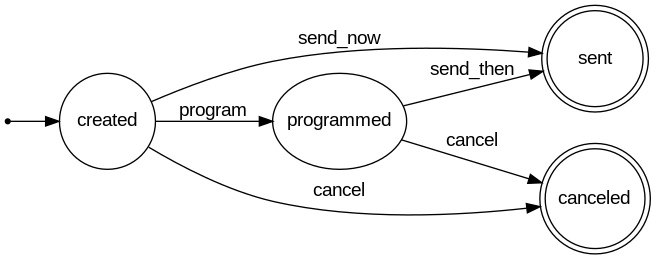
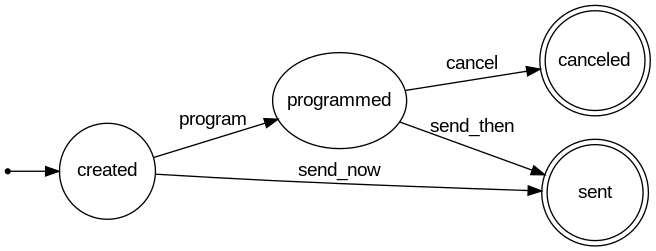
allow user to mark an appointment as fulfiled/missed

diff --git a/app/assets/stylesheets/convicts.scss b/app/assets/stylesheets/convicts.scss
@@ -45,3 +45,57 @@
 .edit-convict-submit-button {
   margin-top: 40px;
 }
+
+.show-convict-next-appointments-container {
+  display: flex;
+  justify-content: center;
+  width: 60%;
+  max-width: 700px;
+  margin: auto;
+  margin-top: 20px;
+  @include box;
+}
+
+.show-convict-next-appointments-item {
+  margin-left: 40px;
+}
+
+.show-convict-next-appointment-link {
+  margin-left: 10px;
+}
+
+.show-convict-next-appointments-title {
+  text-align: center;
+}
+
+.show-convict-next-appointment {
+  margin-bottom: 5px;
+}
+
+.appointment-fulfilment-container {
+  width: 60%;
+  max-width: 700px;
+  margin: auto;
+  margin-bottom: 20px;
+  display: flex;
+  flex-direction: column;
+
+  @include box;
+  border-color: $light-red;
+  border-width: 2px;
+}
+
+.appointment-fulfilment-controls-container {
+  display: flex;
+  justify-content: center;
+  margin-top: 20px;
+}
+
+.show-convict-fulfil-button {
+  @include button($light-blue)
+}
+
+.show-convict-miss-button {
+  @include button($light-grey)
+  margin-left: 40px;
+}

diff --git a/app/assets/stylesheets/variables.scss b/app/assets/stylesheets/variables.scss
@@ -14,6 +14,7 @@ $home-sub-title: #a1a1a1;
 $table-border: lightgray;
 $form-input: #a1a1a1;
 $link: #00147E;
+$support-link: #FF8D7E;
 
 $notice: palegreen;
 $alert: tomato;
@@ -24,7 +25,8 @@ $grey: #DCDCDC;
 $light-blue: #92dff3;
 $light-grey: lightgray;
 $dark-grey: #656565;
-$salmon: #FF8D7E;
+$light-red: #FF8D7E;
+$light-green: #90EE90;
 
 $jap-cabinet1: #FCA1A3;
 $jap-cabinet2: #F9B895;

diff --git a/app/assets/stylesheets/home.scss b/app/assets/stylesheets/home.scss
@@ -24,10 +24,6 @@
   margin-left: 30px;
 }
 
-.home-convict-search-title {
-  // margin-bottom: 20px;
-}
-
 .home-control {
   @include button($light-blue);
   margin-right: 20px;
@@ -42,7 +38,6 @@
 .home-agenda-link {
   @include button($light-grey);
   margin-right: 20px;
-  width: 175px;
 }
 
 .home-agenda-empty-link {

diff --git a/app/assets/stylesheets/mixins.scss b/app/assets/stylesheets/mixins.scss
@@ -2,6 +2,7 @@
   background-color: $color;
   color: $main-font-color;
   padding: .5em 1em;
+  border-radius: 2px;
   font-size: 18px;
   text-decoration: none;
   border: none;
@@ -21,4 +22,5 @@
 @mixin box {
   border: 1px solid $table-border;
   padding: 20px;
+  border-radius: 2px;
 }

diff --git a/app/assets/stylesheets/layout.scss b/app/assets/stylesheets/layout.scss
@@ -43,8 +43,9 @@
 .support-link {
   text-decoration: none;
   padding: 5px 15px;
+  border-radius: 2px;
   color: $main-font-color;
-  background-color: $salmon;
+  background-color: $support-link;
   position: fixed;
   top: 60%;
   right: 0;

diff --git a/spec/features/appointments_spec.rb b/spec/features/appointments_spec.rb
@@ -105,4 +105,60 @@ RSpec.feature 'Appointments', type: :feature do
       expect(page).to have_current_path(appointment_path(appointment))
     end
   end
+
+  describe 'fulfilment' do
+    it 'controls are only displayed for passed appointments' do
+      convict = create(:convict)
+      apt_type = create(:appointment_type, :with_notification_types)
+      slot = create(:slot, date: Date.tomorrow)
+
+      appointment = create(:appointment, convict: convict,
+                                         slot: slot,
+                                         appointment_type: apt_type)
+
+      appointment.book
+
+      visit convict_path(convict)
+
+      expect(page).not_to have_selector '.appointment-fulfilment-container'
+    end
+
+    it 'works if convict came to appointment' do
+      convict = create(:convict)
+      apt_type = create(:appointment_type, :with_notification_types)
+      slot = create(:slot, date: Date.today)
+
+      appointment = create(:appointment, convict: convict,
+                                         slot: slot,
+                                         appointment_type: apt_type)
+
+      appointment.book
+
+      visit convict_path(convict)
+
+      within first('.appointment-fulfilment-container') { click_button 'Oui' }
+
+      appointment.reload
+      expect(appointment.state).to eq('fulfiled')
+    end
+
+    it "works if convict didn't came to appointment" do
+      convict = create(:convict)
+      apt_type = create(:appointment_type, :with_notification_types)
+      slot = create(:slot, date: Date.today)
+
+      appointment = create(:appointment, convict: convict,
+                                         slot: slot,
+                                         appointment_type: apt_type)
+
+      appointment.book
+
+      visit convict_path(convict)
+
+      within first('.appointment-fulfilment-container') { click_button 'Non' }
+
+      appointment.reload
+      expect(appointment.state).to eq('no_show')
+    end
+  end
 end

diff --git a/spec/policies/appointment_policy_spec.rb b/spec/policies/appointment_policy_spec.rb
@@ -16,6 +16,8 @@ describe AppointmentPolicy do
     it { is_expected.to permit_action(:update) }
     it { is_expected.to permit_action(:destroy) }
     it { is_expected.to permit_action(:cancel) }
+    it { is_expected.to permit_action(:fulfil) }
+    it { is_expected.to permit_action(:miss) }
     it { is_expected.to permit_action(:index_today) }
     it { is_expected.to permit_action(:agenda_jap) }
     it { is_expected.to permit_action(:agenda_spip) }
@@ -32,6 +34,8 @@ describe AppointmentPolicy do
     it { is_expected.to permit_action(:update) }
     it { is_expected.to permit_action(:destroy) }
     it { is_expected.to permit_action(:cancel) }
+    it { is_expected.to permit_action(:fulfil) }
+    it { is_expected.to permit_action(:miss) }
     it { is_expected.to forbid_action(:index_today) }
     it { is_expected.to permit_action(:agenda_jap) }
     it { is_expected.to permit_action(:agenda_spip) }
@@ -48,6 +52,8 @@ describe AppointmentPolicy do
     it { is_expected.to permit_action(:update) }
     it { is_expected.to permit_action(:destroy) }
     it { is_expected.to permit_action(:cancel) }
+    it { is_expected.to permit_action(:fulfil) }
+    it { is_expected.to permit_action(:miss) }
     it { is_expected.to permit_action(:index_today) }
     it { is_expected.to forbid_action(:agenda_jap) }
     it { is_expected.to forbid_action(:agenda_spip) }

diff --git a/spec/models/appointment_spec.rb b/spec/models/appointment_spec.rb
@@ -19,9 +19,11 @@ RSpec.describe Appointment, type: :model do
                     .and_return(create(:notification))
     end
 
-    it { is_expected.to have_states :waiting, :booked, :canceled }
+    it { is_expected.to have_states :waiting, :booked, :canceled, :fulfiled, :no_show }
 
     it { is_expected.to transition_from :waiting, to_state: :booked, on_event: :book }
     it { is_expected.to transition_from :booked, to_state: :canceled, on_event: :cancel }
+    it { is_expected.to transition_from :booked, to_state: :fulfiled, on_event: :fulfil }
+    it { is_expected.to transition_from :booked, to_state: :no_show, on_event: :miss }
   end
 end

diff --git a/app/controllers/appointments_controller.rb b/app/controllers/appointments_controller.rb
@@ -44,6 +44,22 @@ class AppointmentsController < ApplicationController
     redirect_back(fallback_location: root_path)
   end
 
+  def fulfil
+    @appointment = Appointment.find(params[:appointment_id])
+    @appointment.fulfil!
+
+    authorize @appointment
+    redirect_back(fallback_location: root_path)
+  end
+
+  def miss
+    @appointment = Appointment.find(params[:appointment_id])
+    @appointment.miss!
+
+    authorize @appointment
+    redirect_back(fallback_location: root_path)
+  end
+
   def display_places
     skip_authorization
     @appointment_type = AppointmentType.find(params[:apt_type_id])

diff --git a/app/models/appointment.rb b/app/models/appointment.rb
@@ -44,12 +44,26 @@ class Appointment < ApplicationRecord
     state :canceled do
     end
 
+    state :fulfiled do
+    end
+
+    state :no_show do
+    end
+
     event :book do
       transition waiting: :booked
     end
 
     event :cancel do
       transition booked: :canceled
+    end
+
+    event :fulfil do
+      transition booked: :fulfiled
+    end
+
+    event :miss do
+      transition booked: :no_show
     end
 
     after_transition on: :book do |appointment|

diff --git a/app/models/convict.rb b/app/models/convict.rb
@@ -21,6 +21,16 @@ class Convict < ApplicationRecord
     Rails.application.routes.url_helpers.convict_path(id)
   end
 
+  def booked_appointments
+    appointments.where(state: 'booked')
+  end
+
+  def passed_appointments
+    appointments.joins(:slot)
+                .where(state: 'booked')
+                .where('slots.date': ..Date.today)
+  end
+
   private
 
   def phone_situation

diff --git a/app/models/notification.rb b/app/models/notification.rb
@@ -33,7 +33,7 @@ class Notification < ApplicationRecord
     end
 
     event :cancel do
-      transition [:created, :programmed] => :canceled
+      transition programmed: :canceled
     end
 
     after_transition on: :send_now do |notification|
